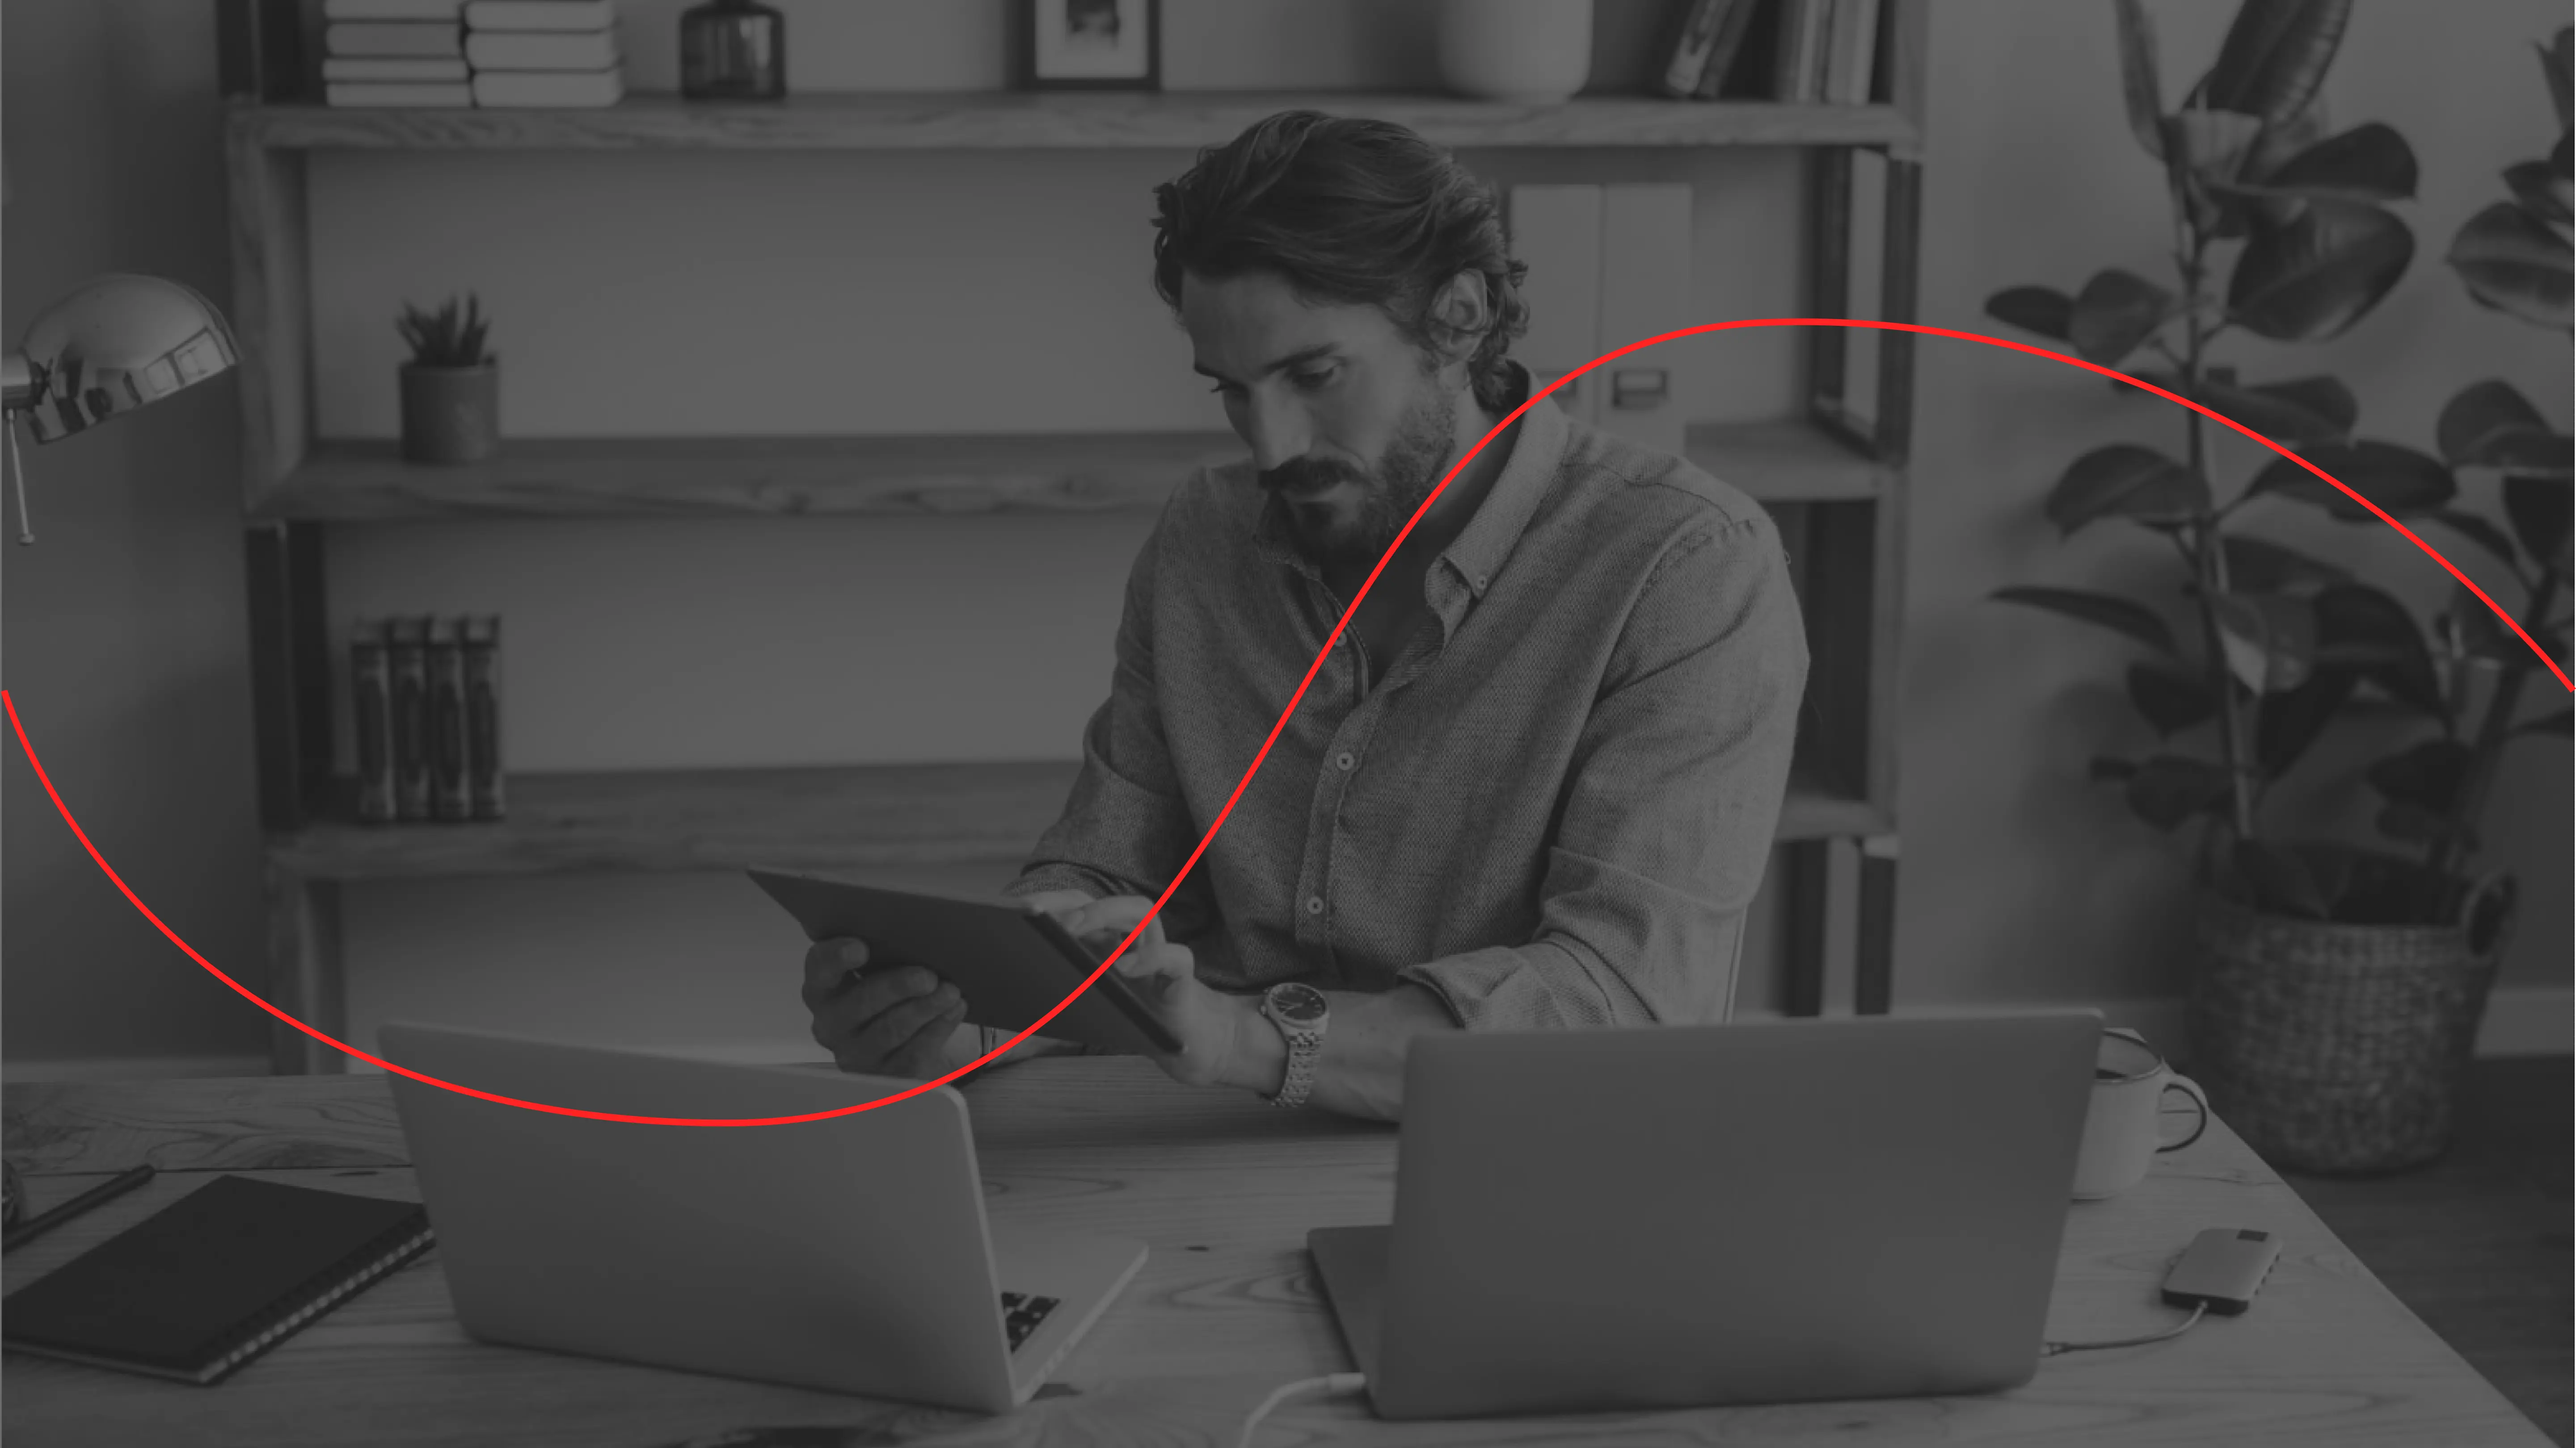
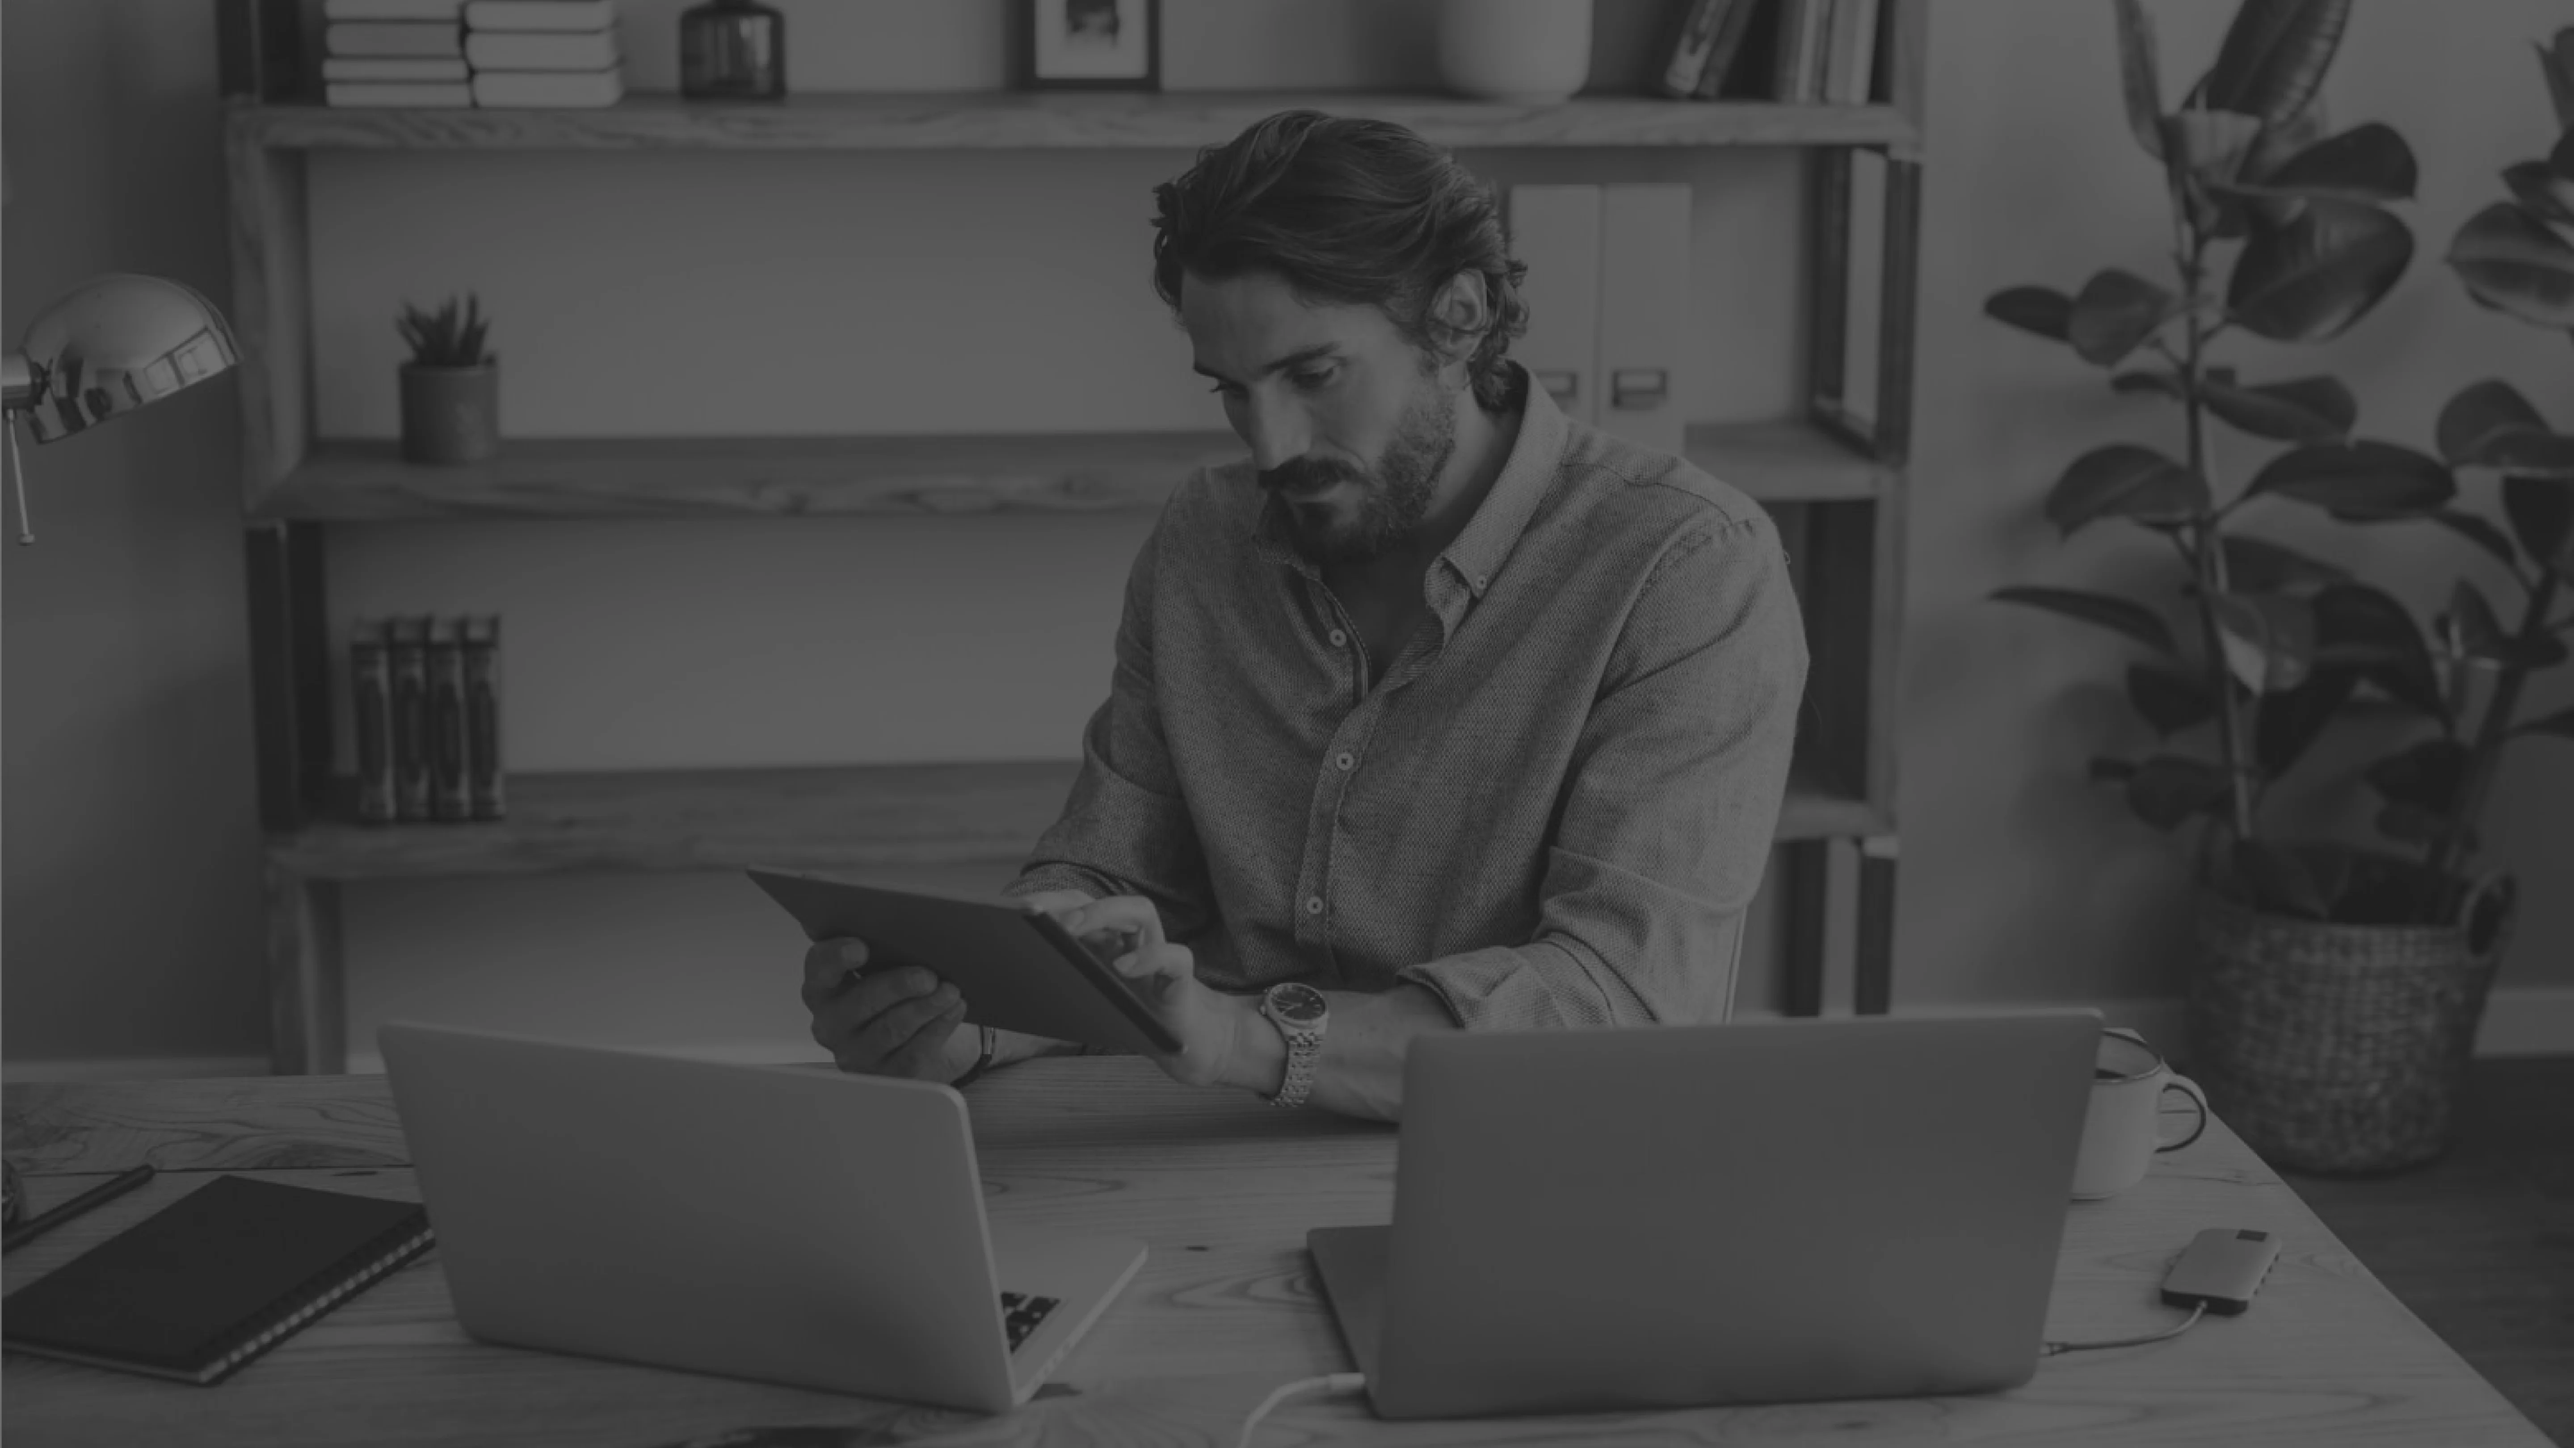
changed the background images of the our work section and improved some of the page layouts

diff --git a/css/software-factory-style.css b/css/software-factory-style.css
@@ -714,7 +714,7 @@ iframe {
   height: 69%;
   justify-content: space-around;
   margin-right: 15%;
-  border: 3px solid var(--green);
+  border: 3px solid var(--green) !important;
 }
 .info-container iframe {
   width: 85%;
@@ -750,8 +750,8 @@ iframe {
   outline: none;
 }
 .material-symbols-outlined {
-  color: red;
-  border: 1px solid red;
+  color: #ADDB1D;
+  border: 1px solid #ADDB1D;
   border-radius: 50%;
 }
 .material-symbols-outlined:hover {
@@ -836,7 +836,7 @@ iframe {
   width: 85%;
   height: 7%;
   font-weight: bold;
-  font-size: 60%;
+  font-size: 90%;
   text-align: center;
   display: flex;
   align-items: center;
@@ -1154,8 +1154,8 @@ iframe {
 }
 #pagination-container span {
   /* background:blue; */
-  width: 30px;
-  height: 30px;
+  width: 24px;
+  height: 24px;
 }
 /* ---------------------------------------------------- */
 @keyframes move {
@@ -2351,7 +2351,8 @@ h6 {
     font-size: 50px;
   }
   #call-to-action {
-    font-size: 0.6rem !important;
+    font-size: 0.8rem !important;
+    weight: 90%
   }
   .slider-content p {
     margin-top: 50px;
@@ -2361,6 +2362,24 @@ h6 {
     left: 40%;
   }
 }
+
+@media screen and (min-width: 1025px) and (max-width: 1250px) {
+  #call-to-action {
+    font-size: 0.7rem !important;
+    weight: 90%;
+    height: 5%;
+  }
+}
+
+@media screen and (min-width: 1800px) {
+  #call-to-action {
+    font-size: 1.2rem !important;
+    weight: 90%;
+   
+  }
+}
+
+
 
 @media screen and (min-width: 1025px) and (max-height: 600px) {
   .slider-info {
@@ -2619,7 +2638,7 @@ h6 {
 @media screen and (max-width: 470px) {
   .slider-content h1 {
     font-size: 40px;
-    line-height: 50px;
+    line-height: 56px;
     margin-top: 50px;
   }
   .static-image {

diff --git a/index.html b/index.html
@@ -125,7 +125,7 @@
             <h1 id="hero-title-h1">
               Desarrollo de <br />
               <strong style="color: #ADDB1D">MVP</strong>
-              <strong style="background: white; color: black; font-size: 50px"
+              <strong style="background: white; color: black; font-size: 50px; margin-left:12px; padding: 0px 6px"
                 >EN 8 SEMANAS*</strong
               >
             </h1>
